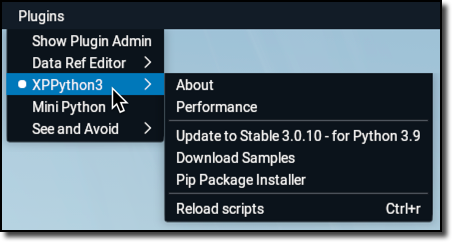
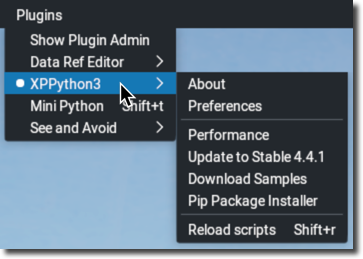
updates for new preferences popup and xppython3.ini contents

diff --git a/XPython/docs/source/conf.py b/XPython/docs/source/conf.py
@@ -26,7 +26,7 @@ author = 'Peter Buckner'
 master_doc = 'index'
 
 # The full version, including alpha/beta/rc tags
-release = 'latest'
+release = 'beta'
 
 # -- general configuration ---------------------------------------------------
 

diff --git a/XPython/docs/source/usage/preferences.rst b/XPython/docs/source/usage/preferences.rst
@@ -1,0 +1,67 @@
+Preferences
+===========
+
+The **Preferences** popup displays user-settable preferences which relate to the XPPython3 plugin (as
+opposed to preferences which may relate to any particular python plugin.)
+
+.. image:: /images/prefs.png
+           
+* **Documentation**: opens a browser to this page.
+
+* **Save**: records your changes to disk and closes the windoow:
+  you will need to restart X-Plane to have them take effect.
+
+* **Cancel**: discards any changes and closes the window.
+
+There are a few very important settings you should consider, each relates to Internet access
+and possible collection of usage data. None of these options are required nor is there
+any problem enabling them yet running X-Plane without a network connection.
+
+* **Check for updates**: When set, XPPython3 will contact our server on startup and get
+  information about the latest stable (and beta) versions available to download. No
+  data is recorded on the server and no personally identifying information is sent, if
+  this is the only preference enabled. Disabling this preference will disable
+  all status query & usage collection for XPPython3.
+
+  I suggest you leave this enabled to allow XPPython3 to indicate if/when a new version
+  is available.
+
+* **Collect XPPython3 Usage Statistics**: When set (and "Check for Updates" is set),
+  XPPython3 will send anonymous information
+  to our server where we record the fact that XPPython3 plugin is being started & which version
+  of X-Plane (e.g., XP11 or XP12) and which variant (Linux, Mac, PC). This information
+  is summarized in `current usage graphs <https://maps.avnwx.com/x-plane/stats>`_.
+
+  I hope you leave this preference enabled as it allows me to gauge usage: otherwise I
+  have no idea if anyone is using XPPython3. As a free-ware developer, positive feedback
+  keeps me going.
+
+* **Collect Python Plugin Statistics**: When set,
+  XPPython3 will send anonymous information to our server with the name and description of each python
+  plugin in use. Individual plugin developers can disable collection *for their plugin*, by setting
+  the value ``self.xp2_disable_usage_stats = False`` on their ``PythonInterface`` instance.
+
+  Every enabled XPPython3 python plugin will be recorded *on program exit*. This information is also
+  summarized in `current usage graphs <https://maps.avnwx.com/x-plane/stats>`_. (Note that
+  the extent and display of per-plugin usage summarization is under development.)
+
+  I hope you leave this preference enabled as well. Over the years I've been surprised by
+  the range of features implemented through python plugins and this is an effort to
+  recognized those plugins which are most popular.
+
+Information is stored on servers physically in the United States, and is accessible *only* by
+me. Other than what is viewable by the above graphs, no information is sold or shared with
+anyone else.
+
+When we say the data is collected "anonymously", here's what we mean. As with *every*
+interaction on the Internet, the server will receive your IP address. Other than to communicate
+back to XPPython3 (with current version information) this information is ignored, and not
+recorded. In an attempt to record *unique* information, XPPython3 creates and sends a UUID
+with the data collection messages. This allows us distinguish between new & returning
+users. It *does not* tell us anything about you, nor is there any way for us to identify
+you from the UUID sent: If you like, you can change the UUID and we'll never know.
+
+Data for preferences (including the generated UUID) are stored in the
+text file :code:`<XP>/Output/preferences/xppython3.ini`. (See also :doc:`/development/xppython3.ini`.)
+
+For the most part, changes to Preferences will take effect on next start of X-Plane.

diff --git a/XPython/docs/source/development/xppython3.ini.rst b/XPython/docs/source/development/xppython3.ini.rst
@@ -19,7 +19,8 @@ Flags are:
 
 * **debug**: when "1", print loading and initialization progress for all XPPython3 plugins,
   and provide more detailed warning messages which may help pin-point plugin coding
-  errors. "0" is do not print.
+  errors. "0" is do not print. Additionally, when this value is set, XPPython3 *will not*
+  check for updates or attempt to collect usage data. (We interpret "1", "On", "Yes", and "True" identically.)
 
   When this feature is enabled, We also enable the built-in X-Plane error callback, which performs
   additional run-time error checking and will forward these errors to the python log.
@@ -28,6 +29,8 @@ Flags are:
   your plugin crashes yet the printed exception isn't detailed enough. Otherwise, this options puts
   a lot of extra noise in the XPPython3Log.txt file, which may make it harder to debug your code.
 
+  This option is also settable using the :doc:`/usage/preferences` menu.
+
 * **flush_log**: when "1", immediately call ``flush`` on all writes to XPPython3Log.txt. Normally,
   calls using ``xp.log`` are buffered, for performance reasons. If you're debugging by following
   the XPPython3Log.txt file in another window, you'll not see output until the buffer is flushed.
@@ -35,6 +38,8 @@ Flags are:
 
   Recommend setting this on during debug. The performance penalty is pretty small, and the immediate
   flush is very useful.
+
+  This option is also settable using the :doc:`/usage/preferences` menu.
 
 * **py_verbose**: This sets the value for ``PYTHONVERBOSE`` which is equivalent to the ``-v`` python flag.
   Set to "1": print a message each time a module (*any python module*) is initialized, showing the
@@ -58,3 +63,28 @@ Flags are:
   This parameter is identical to the ``XPPYTHON3_PRESERVE`` environment variable. The environment variable, if
   defined, has precedence. Note that the environment variable is "true" if it is set to *any* value, including 0.
   If you do not which this behavior be sure to unset the environment variable.
+
+Flags associated with usage data collection are also stored in this file. These are settable using the :doc:`/usage/preferences` menu:
+
+* **check_for_update**: Do/Don't check for new version of XPPython3 on program start.
+
+  Note that this *does not* download a new version. If
+  a new version is available, the XPPython3 menu item will include a indication.
+
+* **collect_xppython3_stats**: On startup send information to XPPython3 server including version of XPPython3 being used. Information
+  is sent anonymously. (See :doc:`/usage/preferences` for details.)
+
+* **collect_python_plugin_stats**: On X-Plane exit send information to XPPython3 server including list of python plugins enabled.
+  Information is sent anonymously. (See :doc:`/usage/preferences` for details.)
+
+* **uuid**: "Universally Unique ID", an alpha numeric string which is nearly guaranteed to be unique. Automatically created on initial
+  XPPython3 startup, it is sent with data collection to allow us to determine the number of "unique" users while still protecting your
+  anonymity. We don't know "who" has "what" UUID, nor do we care. We also don't restrict access or functionality based on UUID.
+  If you like you can change the UUID: it'll cause us to consider your usage as by another user, but really, that's no big deal to us.
+  (If you delete it, we'll just create another.)
+
+  The particular UUID value is random and generated using python uuid module
+  (``uuid.uuid4()``). It contains no personally identifying information.
+  Refer to `Python documentation <https://docs.python.org/3/library/uuid.html#uuid.uuid4>`_ for details.
+
+.. note:: Setting the ``debug`` flag will disable all usage data collection, and will disable checking for XPPython3 updates.

diff --git a/XPython/docs/source/usage/runtime_menus.rst b/XPython/docs/source/usage/runtime_menus.rst
@@ -31,6 +31,19 @@ XPPython3 installs a single menu item, "XPPython3", on the plugin menu.
      re-download the zip file, as if you were doing an initial installation.
 
 
+* **Preferences** menu item pops up a dialog box which allows you to set XPPython3-specific preferences, including
+  version checking and usage data collection. This box is *also* automatically displayed the first time you run
+  XPPython3. See :doc:`preferences`.
+
+  .. image:: /images/prefs.png
+
+  * **Documentation** opens a browser to :doc:`/usage/preferences`.
+
+  * **Save** records your changes to disk and closes the window:
+    you will need to restart X-Plane to have them take effect.
+
+  * **Cancel** discards any changes and closes the window.
+
 * **Performance** menu item displays a list of all loaded XPPython3 plugins with some live performance statistics for each.
 
   .. image:: /images/perf.png
@@ -50,6 +63,10 @@ The next three menu items are:
   This may be useful if you've messed up an installation: It *does not* change anything in your PythonPlugins
   folder.
 
+  .. note:: If you have disabled version-checking under :doc:`preferences`, XPPython3 will be unable to determine
+    which version is available, and will not attempt download a new version of XPPython3. You would need to
+    (at least temporarily) enable version checking.
+  
   If all else fails, you can always re-download the zip file (mentioned at the top of this page) and replace
   your current XPPython3 folder with the contents of the zip file.
 
@@ -73,7 +90,7 @@ The next three menu items are:
   + imgui
   + requests
 
-  With XPPython3 v4.4, I'l attempt to also install:
+  With XPPython3 v4.4, I'll attempt to also install:
 
   + numpy
   + Pillow (PIL)
@@ -92,7 +109,7 @@ Finally:
     4) Started
     5) Enabled
 
-  This allows plugins to clean up after themselves (via XPluginDisable / XPluginStop), and fully re-intialize (via
+  This allows plugins to clean up after themselves (via XPluginDisable / XPluginStop), and fully re-initialize (via
   XPluginStart, XPluginEnable). We also attempt to unregister and delete resources no properly removed by the plugin
   themselves.
   

diff --git a/XPython/docs/source/changelog.rst b/XPython/docs/source/changelog.rst
@@ -4,8 +4,28 @@ Change Log
 Known Bugs
 ----------
 
-  None (prove me wrong!)
+* **Incorrect log message attribution**: In rare occasions XPPython3Log.txt will
+  incorrectly attribute a log message to
+  the wrong python plugin. This may be related to X-Plane calls to internal error reporting callback.
+  The message is correct apart from identifying the requesting plugin.
   
+4.4.2 (Beta)
+------------
+:Improvements:
+   * **Usage Data Collection**: Previously, XPPython3 would check for updates and record basic usage statistics.
+     This version enables users & developers to enable/disable version checking and usage data collection. It
+     also introduces the (optional) collection of per-python plugin usage. See
+     :doc:`/usage/preferences`.
+
+   * **xppython3.ini parser**: Previously XPPython3's parsing of options required "1" or "0" for boolean
+     options. It now also supports "Yes", "On", and "True" as equivalents. See :doc:`development/xppython3.ini`.
+
+   |
+   
+:New Features:
+   * **Preferences Popup**: On first execution and in response to "Preferences" menu item, a :doc:`/usage/preferences` popup
+     is displayed. This augments the existing :doc:`/development/xppython3.ini` feature.
+
 4.4.1 (10-Jul-2024)
 -------------------
 :Fixes:
@@ -48,7 +68,7 @@ Known Bugs
      examples will be included in the future.
 
    * **xp_pip module**. This module allows plugin developers to automatically install
-     python modules into the correct location withing XPPython3. See :doc:`/development/modules/xp_pip`.
+     python modules into the correct location within XPPython3. See :doc:`/development/modules/xp_pip`.
 
    |
 

diff --git a/XPython/docs/source/index.rst b/XPython/docs/source/index.rst
@@ -5,7 +5,8 @@ XPPython3 [#why]_ is a plugin for Laminar Research `X-Plane <https://www.x-plane
 of additional plugins using python3. This is a replacement for Sandy Barbour's excellent
 `PythonInterface <http://www.xpluginsdk.org/python_interface.htm>`_ plugin, which supported only python2.
 
-Curious? See `current usage graphs <https://maps.avnwx.com/x-plane/stats>`_.
+Curious? See `current usage graphs <https://maps.avnwx.com/x-plane/stats>`_. (This data
+is optionally collected as described in :doc:`usage/preferences`.)
 
 This is XPPython3 version 4 and includes both the X-Plane plugin as well as a private
 version of Python3. Unlike previous versions of XPPython3, you no longer need to install

diff --git a/XPython/docs/source/usage/installation_plugin.rst b/XPython/docs/source/usage/installation_plugin.rst
@@ -93,13 +93,16 @@ Three steps:
 
 Errors are logged, see :doc:`logfiles`.
 
-If it's running, get familiar with :doc:`runtime_menus`.
+If it's running, and this is your first time, we'll popup the XPPython3 :doc:`preferences` box.
+
+Next, get familiar with :doc:`runtime_menus`.
 
 .. toctree::
    :titlesonly:
    :hidden:
 
    common_errors
+   preferences
    getting_support
    
 ----
